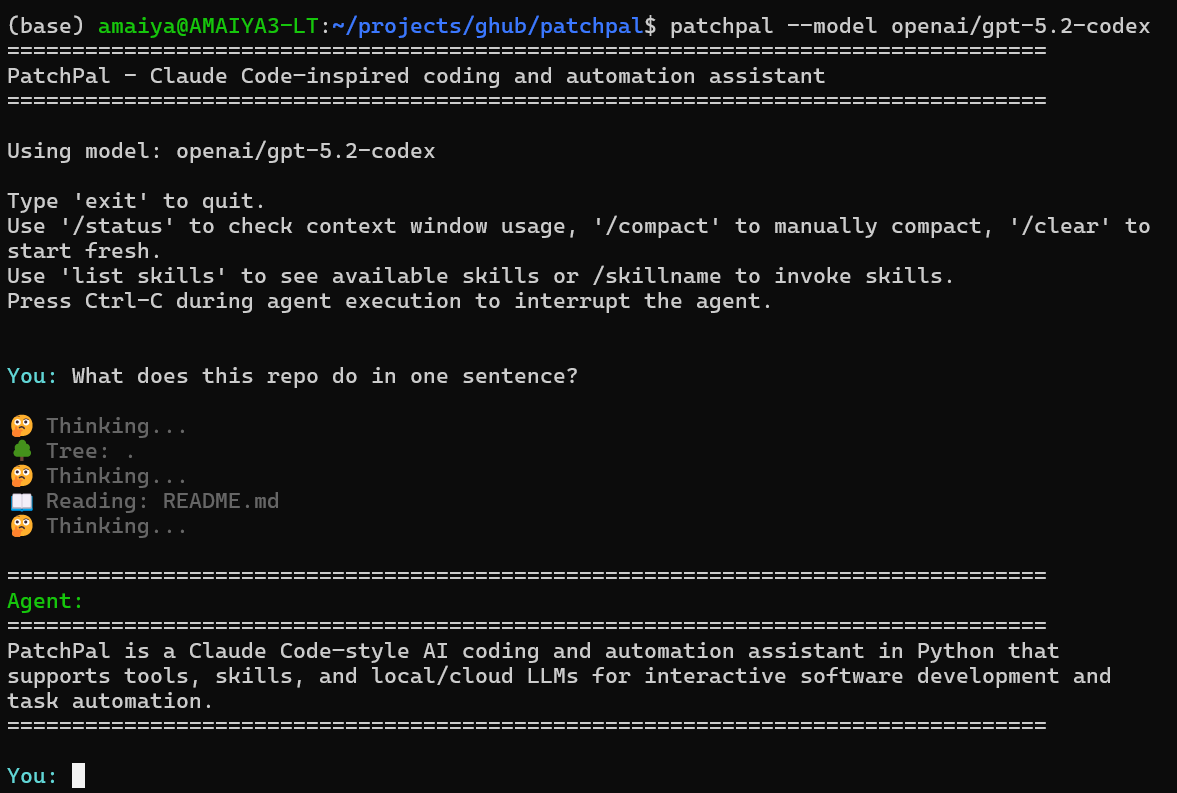
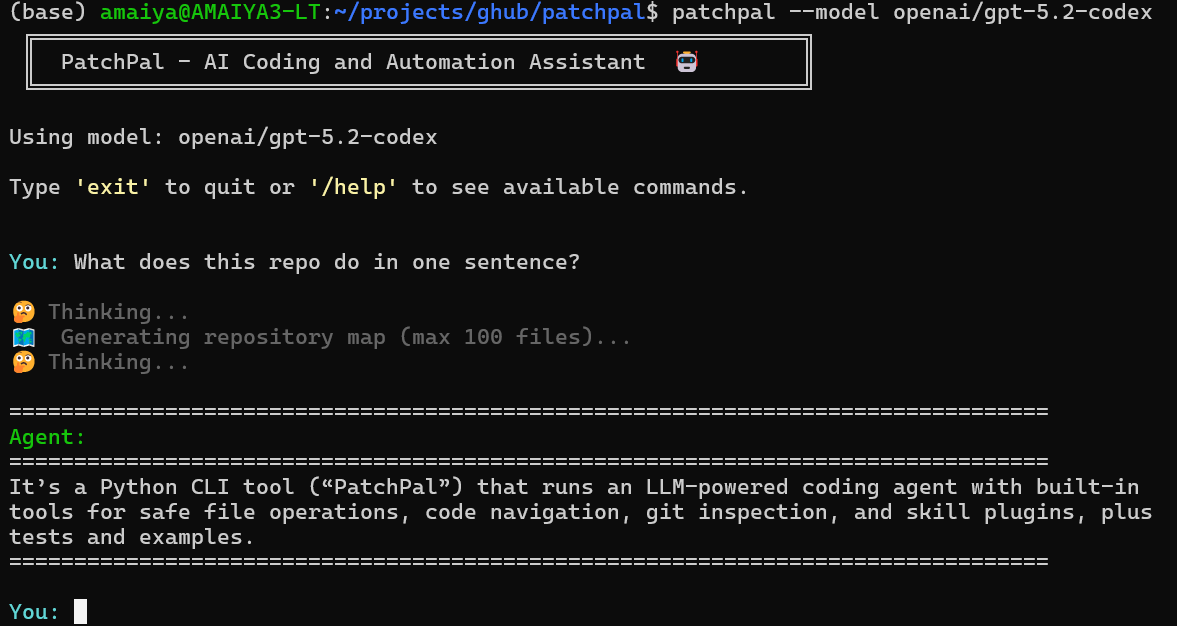
Add /help and /context commands, improve CLI branding
- Add /help command displaying all CLI commands in organized categories
  (Basic Commands, Context Management, Skills, Tips)
- Add /context command for viewing conversation history with summary
  view (all messages) and detailed view (specific message by number)
- Update welcome banner with Unicode box drawing for better aesthetics
- Simplify startup message to direct users to /help command
- Update branding from 'Claude Code-inspired' to 'AI coding and
  automation assistant' throughout documentation
- Update screenshot to reflect new UI changes

Changed region(s): [[0.0, 0.1821, 0.9788, 1.0], [0.0, 0.0, 0.9788, 0.1518]]

diff --git a/patchpal/cli.py b/patchpal/cli.py
@@ -377,9 +377,9 @@ Supported models: Any LiteLLM-supported model
     # Get history file path for manual logging
     history_file = _get_patchpal_dir() / "history.txt"
 
-    print("=" * 80)
-    print("PatchPal - Claude Code–inspired coding and automation assistant")
-    print("=" * 80)
+    print(" ╔═══════════════════════════════════════════════════════════╗")
+    print(" ║  PatchPal - AI Coding and Automation Assistant  🤖        ║")
+    print(" ╚═══════════════════════════════════════════════════════════╝")
     print(f"\nUsing model: {model_id}")
 
     # Show custom tools info if any were loaded
@@ -395,12 +395,9 @@ Supported models: Any LiteLLM-supported model
     if custom_prompt_path:
         print(f"\033[1;36m🔧 Using custom system prompt: {custom_prompt_path}\033[0m")
 
-    print("\nType 'exit' to quit.")
     print(
-        "Use '/status' to check context window usage, '/compact' to manually compact, '/clear' to start fresh."
+        "\nType \033[1;33m'exit'\033[0m to quit or \033[1;33m'/help'\033[0m to see available commands.\n"
     )
-    print("Use 'list skills' to see available skills or /skillname to invoke skills.")
-    print("Press Ctrl-C during agent execution to interrupt the agent.\n")
 
     while True:
         try:
@@ -473,6 +470,36 @@ Supported models: Any LiteLLM-supported model
 
                 print("\nGoodbye!")
                 break
+
+            # Handle /help command - show available commands
+            if user_input.lower() in ["help", "/help"]:
+                print("\n" + "=" * 70)
+                print("\033[1;36mAvailable Commands\033[0m")
+                print("=" * 70)
+                print()
+                print("  \033[1;33mBasic Commands:\033[0m")
+                print("    exit, quit, q        Exit the session")
+                print("    /help                Show this help message")
+                print()
+                print("  \033[1;33mContext Management:\033[0m")
+                print("    /status              Show context window usage and token statistics")
+                print("    /context             View all messages in conversation history")
+                print("    /context <number>    View specific message by number (full details)")
+                print("    /clear               Clear conversation history (start fresh)")
+                print("    /compact             Manually trigger context compaction")
+                print()
+                print("  \033[1;33mSkills:\033[0m")
+                print("    /skillname [args]    Invoke a skill (e.g., /commit)")
+                print("    list skills          Ask agent to list available skills")
+                print()
+                print("  \033[1;33mTips:\033[0m")
+                print("    • Use UP/DOWN arrows to navigate command history")
+                print("    • Press TAB for path and skill name completion")
+                print("    • Type your questions or requests naturally to the AI agent")
+                print("    • Use Ctrl+C to cancel current input (not the entire session)")
+                print()
+                print("=" * 70 + "\n")
+                continue
 
             # Handle /status command - show context window usage
             if user_input.lower() in ["status", "/status"]:
@@ -733,6 +760,175 @@ Supported models: Any LiteLLM-supported model
                 print("\n\033[1;32m✓ Context cleared successfully!\033[0m")
                 print("  Starting fresh with empty conversation history.")
                 print("  All previous context has been removed - ready for a new task.")
+                print("=" * 70 + "\n")
+                continue
+
+            # Handle /context command - view current context
+            if (
+                user_input.lower() == "context"
+                or user_input.lower().startswith("context ")
+                or user_input.lower().startswith("/context")
+            ):
+                # Parse optional message number
+                parts = user_input.split()
+                specific_msg_num = None
+                if len(parts) > 1:
+                    try:
+                        specific_msg_num = int(parts[1])
+                    except ValueError:
+                        print(f"\033[1;31m  Error: Invalid message number '{parts[1]}'\033[0m")
+                        print("  Usage: /context [message_number]")
+                        print("=" * 70 + "\n")
+                        continue
+
+                print("\n" + "=" * 70)
+                print("\033[1;36mCurrent Context\033[0m")
+                print("=" * 70)
+
+                if not agent.messages:
+                    print("\033[1;33m  Context is empty - no messages yet.\033[0m")
+                    print("=" * 70 + "\n")
+                    continue
+
+                # If specific message requested, show only that message
+                if specific_msg_num is not None:
+                    if specific_msg_num < 1 or specific_msg_num > len(agent.messages):
+                        print(
+                            f"\033[1;31m  Error: Message {specific_msg_num} not found. Valid range: 1-{len(agent.messages)}\033[0m"
+                        )
+                        print("=" * 70 + "\n")
+                        continue
+
+                    msg = agent.messages[specific_msg_num - 1]
+                    role = msg.get("role", "unknown")
+                    content = msg.get("content", "")
+
+                    # Format role with color
+                    if role == "user":
+                        role_display = "\033[1;36mUser\033[0m"
+                    elif role == "assistant":
+                        role_display = "\033[1;32mAssistant\033[0m"
+                    elif role == "tool":
+                        # Show tool name if available
+                        tool_name = msg.get("name", "unknown")
+                        role_display = f"\033[1;33mTool ({tool_name})\033[0m"
+                    else:
+                        role_display = f"\033[1;33m{role.capitalize()}\033[0m"
+
+                    # Calculate token count for this message
+                    msg_tokens = agent.context_manager.estimator.estimate_messages_tokens([msg])
+
+                    print(f"  Message [{specific_msg_num}] {role_display} ({msg_tokens:,} tokens):")
+                    print()
+
+                    # Handle different content types - show full content
+                    if isinstance(content, str):
+                        print(f"  {content}")
+                    elif isinstance(content, list):
+                        for block in content:
+                            if isinstance(block, dict):
+                                block_type = block.get("type", "unknown")
+                                if block_type == "text":
+                                    text = block.get("text", "")
+                                    print("  [text]")
+                                    print(f"  {text}")
+                                    print()
+                                elif block_type == "tool_use":
+                                    tool_name = block.get("name", "unknown")
+                                    tool_id = block.get("id", "")
+                                    tool_input = block.get("input", {})
+                                    print(f"  [tool_use] {tool_name}")
+                                    print(f"    id: {tool_id}")
+                                    print(f"    input: {tool_input}")
+                                    print()
+                                elif block_type == "tool_result":
+                                    tool_id = block.get("tool_use_id", "")
+                                    is_error = block.get("is_error", False)
+                                    result_content = block.get("content", "")
+                                    status = "error" if is_error else "success"
+                                    print(f"  [tool_result] ({status})")
+                                    print(f"    tool_use_id: {tool_id}")
+                                    print(f"    content: {result_content}")
+                                    print()
+                                else:
+                                    print(f"  [{block_type}]")
+                                    print(f"  {block}")
+                                    print()
+                            else:
+                                print(f"  {block}")
+                                print()
+                    else:
+                        print(f"  {content}")
+
+                    print("=" * 70 + "\n")
+                    continue
+
+                # Show all messages with summary view
+                stats = agent.context_manager.get_usage_stats(agent.messages)
+                print(f"  Messages: {len(agent.messages)}")
+                print(
+                    f"  Token usage: {stats['total_tokens']:,} / {stats['context_limit']:,} ({stats['usage_percent']}%)"
+                )
+                print()
+
+                # Display each message
+                for i, msg in enumerate(agent.messages, 1):
+                    role = msg.get("role", "unknown")
+                    content = msg.get("content", "")
+
+                    # Calculate token count for this message
+                    msg_tokens = agent.context_manager.estimator.estimate_messages_tokens([msg])
+
+                    # Format role with color
+                    if role == "user":
+                        role_display = "\033[1;36mUser\033[0m"
+                    elif role == "assistant":
+                        role_display = "\033[1;32mAssistant\033[0m"
+                    elif role == "tool":
+                        # Show tool name if available
+                        tool_name = msg.get("name", "unknown")
+                        role_display = f"\033[1;33mTool ({tool_name})\033[0m"
+                    else:
+                        role_display = f"\033[1;33m{role.capitalize()}\033[0m"
+
+                    print(f"  [{i}] {role_display} ({msg_tokens:,} tokens):")
+
+                    # Handle different content types
+                    if isinstance(content, str):
+                        # Simple text content
+                        preview = content[:200]
+                        if len(content) > 200:
+                            preview += "..."
+                        print(f"      {preview}")
+                    elif isinstance(content, list):
+                        # Complex content (e.g., with tool use blocks)
+                        for block in content:
+                            if isinstance(block, dict):
+                                block_type = block.get("type", "unknown")
+                                if block_type == "text":
+                                    text = block.get("text", "")
+                                    preview = text[:200]
+                                    if len(text) > 200:
+                                        preview += "..."
+                                    print(f"      [text] {preview}")
+                                elif block_type == "tool_use":
+                                    tool_name = block.get("name", "unknown")
+                                    tool_id = block.get("id", "")[:8]
+                                    print(f"      [tool_use] {tool_name} (id: {tool_id}...)")
+                                elif block_type == "tool_result":
+                                    tool_id = block.get("tool_use_id", "")[:8]
+                                    is_error = block.get("is_error", False)
+                                    status = "error" if is_error else "success"
+                                    print(f"      [tool_result] id: {tool_id}... ({status})")
+                                else:
+                                    print(f"      [{block_type}]")
+                            else:
+                                print(f"      {str(block)[:100]}")
+                    else:
+                        print(f"      {str(content)[:200]}")
+
+                    print()
+
                 print("=" * 70 + "\n")
                 continue
 

diff --git a/CHANGELOG.md b/CHANGELOG.md
@@ -13,10 +13,13 @@ Most recent releases are shown at the top. Each release shows:
 - **Proactive pruning with intelligent summarization**: Added automatic pruning of tool outputs after each tool call when accumulated outputs exceed `PRUNE_PROTECT` (40K tokens). Uses tool-specific intelligent summarization strategies to preserve key information while reducing token usage by 20-60% in typical sessions. Configurable via `PATCHPAL_PROACTIVE_PRUNING` (default: true). (fixes #48)
 - **Universal tool output limits**: Added predictable per-tool-call limits (2000 lines or 100K characters) to prevent any single tool from dominating context. Inspired by OpenCode's approach but with more generous limits. Replaces the reactive 150% emergency truncation with proactive limits applied to all tools uniformly. Character-based truncation (not bytes) avoids breaking Unicode. Configurable via `PATCHPAL_MAX_TOOL_OUTPUT_LINES` and `PATCHPAL_MAX_TOOL_OUTPUT_CHARS`. Truncated outputs include helpful hints suggesting alternatives like `grep_code()` or `read_lines()`. (#49)
 - **`count_lines()` tool**: Added efficient line counting tool that uses buffered reading (1MB chunks) to count lines in large files without loading them into memory. Returns formatted output like "file.log: 99,497 lines (7.4MB)". Essential for working with large log files - use `count_lines()` first, then `read_lines()` to read specific sections (e.g., last 100 lines). Works with system-wide files, respects permission system, and checks for binary files. (#49)
+- **`/help` command**: Added interactive help command that displays all available CLI commands organized into categories (Basic Commands, Context Management, Skills, Tips). Replaces the verbose welcome message with a simpler prompt directing users to `/help`, improving initial user experience and making commands more discoverable.
+- **`/context` command**: Added conversation history viewer with two modes: (1) summary view showing all messages with role, token count, and preview, (2) detailed view showing full content of a specific message by number. Supports color-coded role display (User, Assistant, Tool) and shows token counts for each message, providing better visibility into conversation state.
 
 ### changed:
 - **`grep_code` now supports system-wide search**: Added optional `path` parameter to search directories outside the repository (e.g., `/tmp/some_folder`, `~/projects`). Supports absolute paths, relative paths from repo root, and `~` expansion. Defaults to repository root for backward compatibility. Updated tool description and documentation to reflect system-wide capability, consistent with other read-oriented tools like `read_file` and `tree`. (fixes #50)
 - **Simplified web fetch truncation**: Removed `MAX_WEB_CONTENT_CHARS` limit from `web_fetch()` in favor of universal `MAX_TOOL_OUTPUT_CHARS` limit applied to all tools. This eliminates redundant truncation logic and ensures consistent behavior across all tools. Web content is now truncated at the same 100K character limit as other tools. (#49)
+- **Simplified CLI welcome message**: Changed from verbose multi-line command list to concise message directing users to `/help`, reducing visual clutter at startup while maintaining command discoverability.
 - Maintain 8000 entries (instead of 1000) in history.txt
 
 ### fixed:

diff --git a/README.md b/README.md
@@ -327,7 +327,7 @@ cp examples/tools/calculator.py ~/.patchpal/tools/
 ```bash
 $ patchpal
 ================================================================================
-PatchPal - Claude Code–inspired coding and automation assistant
+PatchPal - AI coding and automation assistant
 ================================================================================
 
 Using model: anthropic/claude-sonnet-4-5
@@ -794,7 +794,7 @@ This provides fine-grained control over what the agent can access during the ses
 ```bash
 $ patchpal --require-permission-for-all
 ================================================================================
-PatchPal - Claude Code–inspired coding and automation assistant
+PatchPal - AI coding and automation assistant
 ================================================================================
 
 Using model: anthropic/claude-sonnet-4-5
@@ -843,7 +843,7 @@ Simply run the `patchpal` command and type your requests interactively:
 ```bash
 $ patchpal
 ================================================================================
-PatchPal - Claude Code Clone
+PatchPal - AI coding and automation assistant
 ================================================================================
 
 Using model: anthropic/claude-sonnet-4-5
